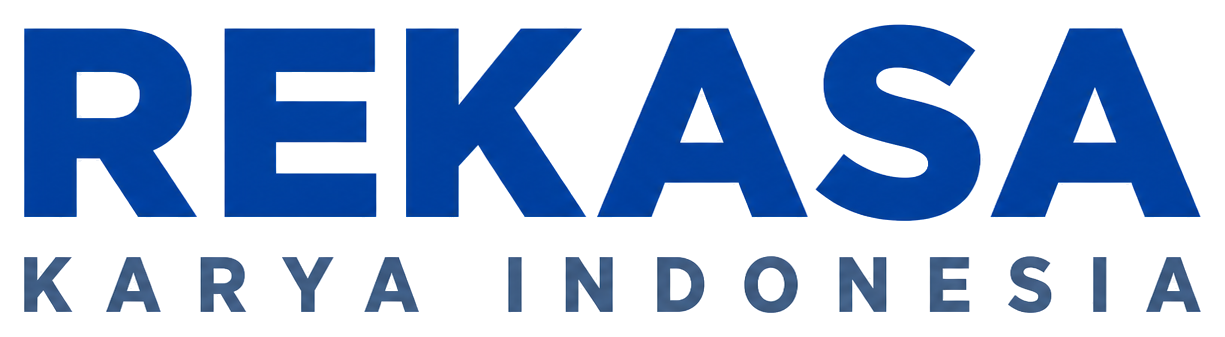
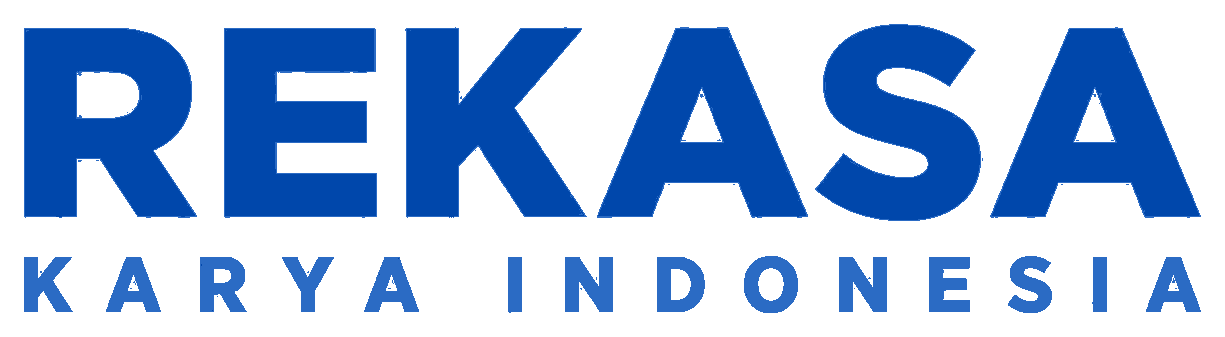
Broadcast Cobalt sky across the storefront chrome.
Use sky and mid cobalt on canvas, tiles, chips, and lockup. Keep midnight #001F4D out of gradients so the page no longer reads as navy.

diff --git a/lib/shared/brand/rekasa_tokens.dart b/lib/shared/brand/rekasa_tokens.dart
@@ -7,12 +7,12 @@ abstract final class RekasaTokens {
   static const Color inkSoft = Color(0xFF2B6BC4);
   static const Color ink = Color(0xFF0047AB);
   static const Color inkDeep = Color(0xFF001F4D);
-  static const Color canvas = Color(0xFFF0F5FC);
+  static const Color canvas = Color(0xFFD6E5F7);
   static const Color paper = Color(0xFFFFFFFF);
-  static const Color muted = Color(0xFF4A5F80);
-  static const Color line = Color(0x1A0047AB);
-  static const Color lineStrong = Color(0x330047AB);
-  static const Color wash = Color(0x148BB4E8);
+  static const Color muted = Color(0xFF4E7BB8);
+  static const Color line = Color(0x668BB4E8);
+  static const Color lineStrong = Color(0x998BB4E8);
+  static const Color wash = Color(0x4D8BB4E8);
   static const Color danger = Color(0xFFA65D5D);
   static const Color warning = Color(0xFF9A7B3C);
 
@@ -36,8 +36,8 @@ abstract final class RekasaTokens {
   static LinearGradient get badgeFill => const LinearGradient(
         begin: Alignment.topLeft,
         end: Alignment.bottomRight,
-        colors: [inkSoft, ink, inkDeep],
-        stops: [0.0, 0.48, 1.0],
+        colors: [sky, inkSoft, ink],
+        stops: [0.0, 0.52, 1.0],
       );
 }
 
@@ -103,8 +103,8 @@ ThemeData buildRekasaStoreTheme() {
     textTheme: text,
     scaffoldBackgroundColor: RekasaTokens.canvas,
     colorScheme: const ColorScheme.light(
-      primary: RekasaTokens.ink,
-      secondary: RekasaTokens.inkSoft,
+      primary: RekasaTokens.inkSoft,
+      secondary: RekasaTokens.sky,
       surface: RekasaTokens.paper,
       error: RekasaTokens.danger,
       onPrimary: RekasaTokens.paper,
@@ -157,7 +157,7 @@ ThemeData buildRekasaStoreTheme() {
     ),
     filledButtonTheme: FilledButtonThemeData(
       style: FilledButton.styleFrom(
-        backgroundColor: RekasaTokens.ink,
+        backgroundColor: RekasaTokens.inkSoft,
         foregroundColor: RekasaTokens.paper,
         elevation: 0,
         padding: const EdgeInsets.symmetric(horizontal: 18, vertical: 14),

diff --git a/lib/shared/widgets/rekasa_surface.dart b/lib/shared/widgets/rekasa_surface.dart
@@ -60,7 +60,7 @@ class RekasaIconTile extends StatelessWidget {
         borderRadius: BorderRadius.circular(size * 0.22),
         boxShadow: [
           BoxShadow(
-            color: RekasaTokens.ink.withOpacity(0.22),
+            color: RekasaTokens.inkSoft.withOpacity(0.28),
             blurRadius: 12,
             offset: const Offset(0, 6),
           ),
@@ -102,7 +102,7 @@ class RekasaEyebrow extends StatelessWidget {
     return Text(
       text.toUpperCase(),
       style: GoogleFonts.plusJakartaSans(
-        color: RekasaTokens.muted,
+        color: RekasaTokens.inkSoft,
         fontSize: 11,
         fontWeight: FontWeight.w700,
         letterSpacing: 1.8,
@@ -126,7 +126,7 @@ class RekasaPillButton extends StatelessWidget {
   @override
   Widget build(BuildContext context) {
     return Material(
-      color: filled ? RekasaTokens.ink : RekasaTokens.paper,
+      color: filled ? RekasaTokens.inkSoft : RekasaTokens.paper,
       borderRadius: BorderRadius.circular(999),
       child: InkWell(
         onTap: onTap,
@@ -136,13 +136,13 @@ class RekasaPillButton extends StatelessWidget {
           decoration: BoxDecoration(
             borderRadius: BorderRadius.circular(999),
             border: Border.all(
-              color: filled ? RekasaTokens.ink : RekasaTokens.lineStrong,
+              color: RekasaTokens.inkSoft,
             ),
           ),
           child: Text(
             label,
             style: GoogleFonts.plusJakartaSans(
-              color: filled ? RekasaTokens.paper : RekasaTokens.ink,
+              color: filled ? RekasaTokens.paper : RekasaTokens.inkSoft,
               fontWeight: FontWeight.w700,
               fontSize: 13,
             ),

diff --git a/lib/apps/admin/rekasa_store_page.dart b/lib/apps/admin/rekasa_store_page.dart
@@ -271,8 +271,8 @@ class _RekasaStorePageState extends State<RekasaStorePage> {
                                 ),
                                 decoration: BoxDecoration(
                                   color: p.planKey == 'paket_a'
-                                      ? RekasaTokens.ink
-                                      : RekasaTokens.wash,
+                                      ? RekasaTokens.inkSoft
+                                      : RekasaTokens.sky,
                                   borderRadius: BorderRadius.circular(999),
                                 ),
                                 child: Text(
@@ -292,7 +292,7 @@ class _RekasaStorePageState extends State<RekasaStorePage> {
                         Text(
                           TenantBilling.formatRp(p.priceIdr),
                           style: GoogleFonts.plusJakartaSans(
-                            color: RekasaTokens.ink,
+                            color: RekasaTokens.inkSoft,
                             fontWeight: FontWeight.w800,
                             fontSize: 28,
                             letterSpacing: -0.8,

diff --git a/lib/apps/admin/rekasa_store_plan_page.dart b/lib/apps/admin/rekasa_store_plan_page.dart
@@ -347,7 +347,7 @@ class _RekasaStorePlanPageState extends State<RekasaStorePlanPage> {
         color: RekasaTokens.paper,
         child: Container(
           decoration: const BoxDecoration(
-            border: Border(top: BorderSide(color: RekasaTokens.line)),
+            border: Border(top: BorderSide(color: RekasaTokens.inkSoft, width: 2.5)),
           ),
           child: SafeArea(
             child: Padding(
@@ -363,7 +363,7 @@ class _RekasaStorePlanPageState extends State<RekasaStorePlanPage> {
                       '${q.fromServer ? '' : ' · perkiraan'}',
                       style: const TextStyle(
                         fontWeight: FontWeight.w800,
-                        color: RekasaTokens.ink,
+                        color: RekasaTokens.inkSoft,
                         fontSize: 16,
                       ),
                     ),

diff --git a/test/rekasa_mark_test.dart b/test/rekasa_mark_test.dart
@@ -14,8 +14,14 @@ void main() {
     expect(RekasaTokens.ink, const Color(0xFF0047AB));
     expect(RekasaTokens.inkSoft, const Color(0xFF2B6BC4));
     expect(RekasaTokens.sky, const Color(0xFF8BB4E8));
+    expect(RekasaTokens.canvas, const Color(0xFFD6E5F7));
     expect(RekasaTokens.inkDeep, const Color(0xFF001F4D));
     expect(RekasaTokens.paper, const Color(0xFFFFFFFF));
+    expect(RekasaTokens.badgeFill.colors, [
+      RekasaTokens.sky,
+      RekasaTokens.inkSoft,
+      RekasaTokens.ink,
+    ]);
     expect(RekasaTokens.ink, isNot(const Color(0xFF000080)));
     expect(RekasaTokens.ink, isNot(const Color(0xFF0B3D8C)));
   });

diff --git a/web/index.html b/web/index.html
@@ -31,10 +31,10 @@
 
   <title>Rekasa</title>
   <style>
-    html, body { height: 100%; margin: 0; background: #F0F5FC; }
+    html, body { height: 100%; margin: 0; background: #D6E5F7; }
     .obr-boot {
       position: fixed; inset: 0; display: flex; align-items: center;
-      justify-content: center; gap: 14px; background: #F0F5FC; z-index: 9999;
+      justify-content: center; gap: 14px; background: #D6E5F7; z-index: 9999;
       transition: opacity .25s ease;
     }
     .obr-boot .rks-lockup-img { height: 56px; width: auto; display: block; }

diff --git a/lib/apps/store/store_app.dart b/lib/apps/store/store_app.dart
@@ -217,7 +217,9 @@ class _StoreHomePageState extends State<StoreHomePage> {
             child: Container(
               decoration: const BoxDecoration(
                 color: RekasaTokens.paper,
-                border: Border(bottom: BorderSide(color: RekasaTokens.line)),
+                border: Border(
+                  bottom: BorderSide(color: RekasaTokens.inkSoft, width: 2.5),
+                ),
               ),
               child: SafeArea(
                 bottom: false,
